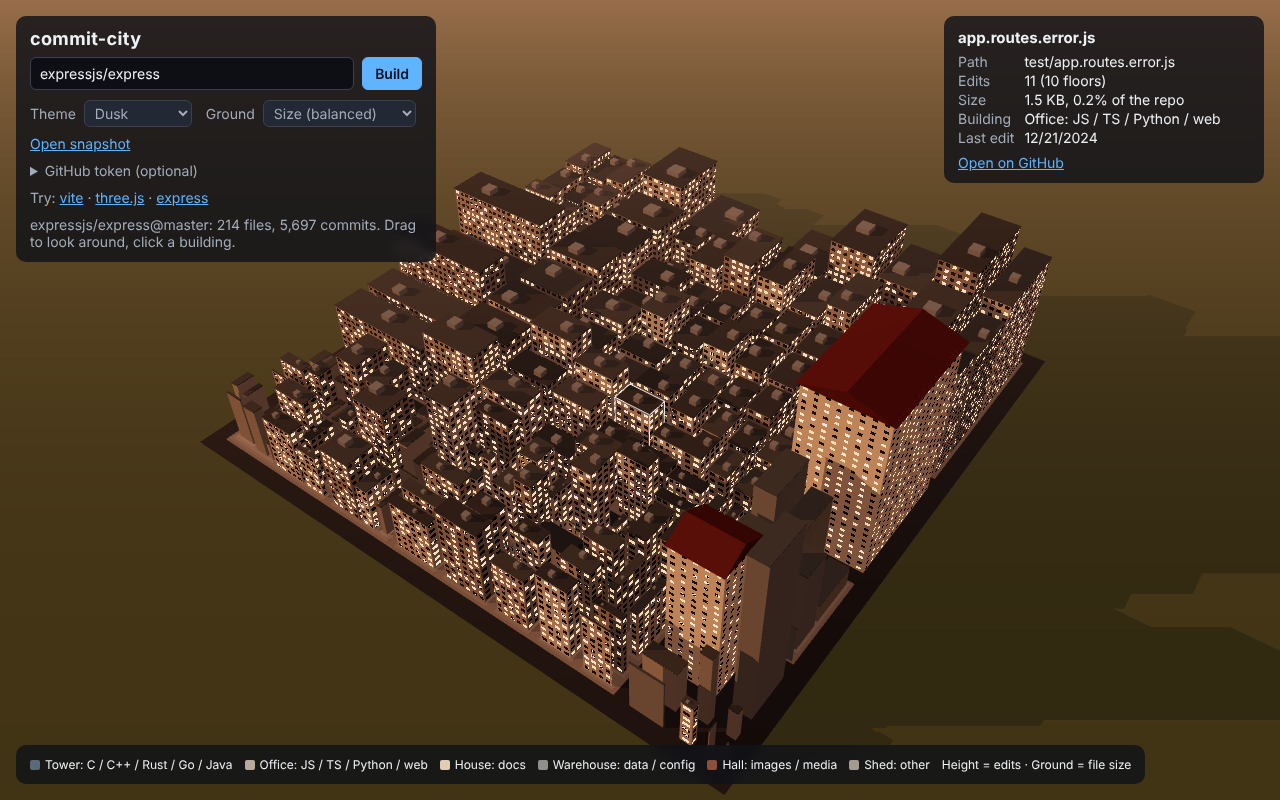
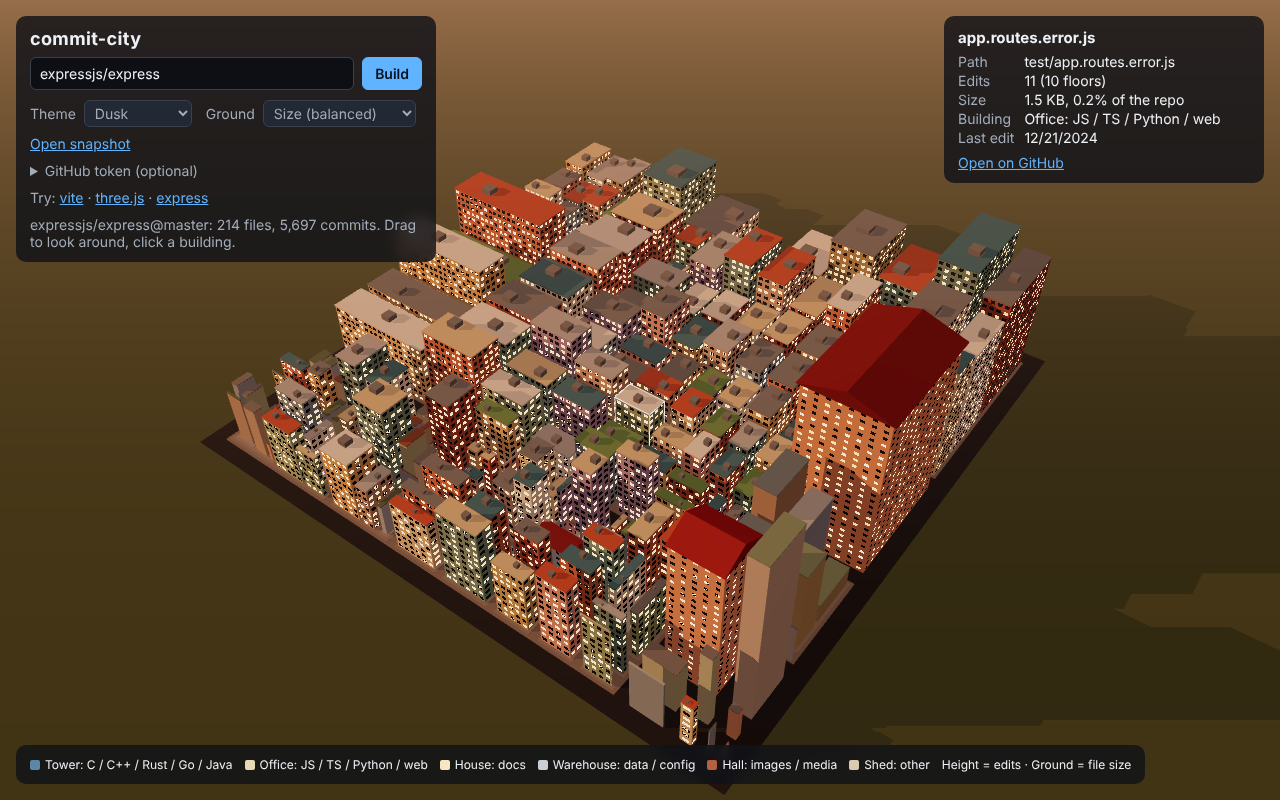
Paint the city in real-world colors
Walls and roofs now pick from a wider palette of real facade and roof
colors (cream, terracotta, sage, pale blue, brick, green roofs, ...) with
a little light/dark variation per building, instead of mostly grey.
Daylight and Dusk share the palette. README screenshots and the mapping
table are updated.

Changed region(s): [[0.1562, 0.1875, 0.8438, 0.9375]]

diff --git a/src/themes.ts b/src/themes.ts
@@ -33,6 +33,37 @@ export interface Theme {
   exposure: number;
 }
 
+/** Real-world facade and roof colors, shared by the daytime themes. */
+const CITY_COLORS: Theme["kinds"] = {
+  tower: {
+    walls: ["#5b87a8", "#4d7c8a", "#6f9fb8", "#3f6f7f", "#7a9a78", "#9a8463", "#5e6f9a", "#86a9c4"],
+    roofs: ["#d9dcde", "#9aa3a8", "#6f8f72", "#c9b28a", "#7c8a99"],
+  },
+  office: {
+    walls: [
+      "#e8d9b5", "#d98f6a", "#c9785c", "#e6c48a", "#a9c2a0", "#9fb8cc",
+      "#e3a99a", "#f0ece2", "#b7a6c9", "#c2b280", "#d4b8a0", "#8fb3a8",
+    ],
+    roofs: ["#e8e6e1", "#b8bcbf", "#7fa36b", "#c96f4a", "#5f8a9a", "#8a8f94", "#d8c9a8"],
+  },
+  house: {
+    walls: ["#f6e7c1", "#f2c6a0", "#e8a87c", "#c9d9b0", "#bcd4e6", "#f4f1ea", "#e9c9d3", "#d9b38c"],
+    roofs: ["#b5523b", "#8f3e2c", "#4b6a8a", "#3f5e4a", "#6b4a3a", "#a8452f", "#c7743f"],
+  },
+  warehouse: {
+    walls: ["#c9cfd2", "#9fb3bf", "#c7b98f", "#8fa6a0", "#b9a58e", "#d6d0c4", "#a7b9d1"],
+    roofs: ["#a6adb2", "#7b8d99", "#b5bdc1", "#8fa38a"],
+  },
+  hall: {
+    walls: ["#b5603f", "#a14f38", "#c4744f", "#8f4a3a", "#c98a5a"],
+    roofs: ["#2f4f4f", "#5a6e6a", "#7d5a46", "#4f6d7a"],
+  },
+  shed: {
+    walls: ["#d8cbb0", "#b9c4a8", "#c8b6a0", "#a8b8c8", "#d9a98a"],
+    roofs: ["#8a8a8a", "#6f7f6a", "#9a6a52"],
+  },
+};
+
 export const THEMES: Theme[] = [
   {
     id: "daylight",
@@ -43,14 +74,7 @@ export const THEMES: Theme[] = [
     plates: ["#b9b6ae", "#c4c1b9", "#cfccc4", "#d8d5ce"],
     sun: { color: "#fff4e0", intensity: 2.4, elevation: 0.9 },
     ambient: { sky: "#dbe8f5", ground: "#7d7466", intensity: 1.3 },
-    kinds: {
-      tower: { walls: ["#6b8496", "#5d7686", "#7891a1", "#56707f", "#8398a4"], roofs: ["#3f4449", "#4a4f54"] },
-      office: { walls: ["#cfc8bb", "#bdb6aa", "#ddd6c8", "#aca598", "#c9bca5", "#a39f98"], roofs: ["#5d6063", "#6c6f71"] },
-      house: { walls: ["#f0e8d9", "#e6dccb", "#d9ccb6", "#f3f0ea", "#d2c7b4"], roofs: ["#9c4a35", "#7f3b2c", "#585d64", "#474c54", "#8a5a3c"] },
-      warehouse: { walls: ["#a9aca9", "#9ca5a8", "#b7b2a6", "#8f9597"], roofs: ["#6e7376", "#7d8183"] },
-      hall: { walls: ["#9d5c46", "#8b4c3b", "#a9684e", "#7e4b3d"], roofs: ["#4f5053", "#5c5d60"] },
-      shed: { walls: ["#bfb8ac", "#aaa59b", "#c7c2b8"], roofs: ["#6a6a6a", "#5a5a5a"] },
-    },
+    kinds: CITY_COLORS,
     windows: { glass: "#34495c", lit: ["#ffe2a8", "#fff4d6"], litShare: 0, glow: 0 },
     shadows: true,
     exposure: 1,
@@ -64,14 +88,7 @@ export const THEMES: Theme[] = [
     plates: ["#8d8580", "#968f89", "#a09892", "#a9a19b"],
     sun: { color: "#ffb37a", intensity: 1.6, elevation: 0.25 },
     ambient: { sky: "#f0c0a8", ground: "#5a4a50", intensity: 1.4 },
-    kinds: {
-      tower: { walls: ["#5b6a78", "#4e5d6a", "#687786"], roofs: ["#2f3236", "#383b40"] },
-      office: { walls: ["#b9ab9c", "#a89c8f", "#c4b6a5", "#9a8f85"], roofs: ["#4b4c4f", "#57585a"] },
-      house: { walls: ["#e1cdb6", "#d6c1aa", "#cbb59e"], roofs: ["#843d2e", "#6d3327", "#4b4f57"] },
-      warehouse: { walls: ["#8f8f8c", "#848a8c", "#9a958a"], roofs: ["#5a5e61"] },
-      hall: { walls: ["#8a4f3d", "#7a4234", "#94593f"], roofs: ["#3f4043"] },
-      shed: { walls: ["#a39b90", "#958f86"], roofs: ["#555555"] },
-    },
+    kinds: CITY_COLORS,
     windows: { glass: "#3a3f4a", lit: ["#ffcf7a", "#ffe6b3"], litShare: 0.45, glow: 1.1 },
     shadows: true,
     exposure: 1.15,

diff --git a/src/city.ts b/src/city.ts
@@ -215,7 +215,9 @@ export class CityView {
     buildings.forEach((b, i) => {
       matrix.makeScale(b.width, b.height, b.depth).setPosition(b.x, b.base, b.z);
       body.setMatrixAt(i, matrix);
-      body.setColorAt(i, color.set(colors.walls[b.seed % colors.walls.length]));
+      // A little light/dark variation, so neighbours with the same paint still differ.
+      const shade = (((b.seed >>> 16) % 11) - 5) * 0.012;
+      body.setColorAt(i, color.set(colors.walls[b.seed % colors.walls.length]).offsetHSL(0, 0, shade));
 
       const top = b.base + b.height;
       if (style.roof === "gable") {

diff --git a/README.ja.md b/README.ja.md
@@ -6,9 +6,11 @@
 
 リポジトリを入れると、コードがブラウザの中で街になります。フォルダは区画、ファイルはビルで、何度も編集されたファイルほど高いビルに、大きいファイルほど広い敷地になります。街を見て回り、ビルをクリックすると、そのファイルをGitHubで開けます。
 
-![vite の街](docs/screenshot.png)
+![express の街](docs/screenshot.png)
 
-![夕暮れの express](docs/screenshot-dusk.png)
+| vitejs/vite | 夕暮れの express |
+|---|---|
+| ![vite の街](docs/screenshot-vite.png) | ![夕暮れの express](docs/screenshot-dusk.png) |
 
 > 状態：v0.1。今のリポジトリの姿を街にします。コミット履歴の再生は次の版で入れます（ロードマップ参照）。
 
@@ -21,6 +23,7 @@
 | 高さ | そのファイルを編集したコミットの数（対数：1回で3階、10回で9階、100回で17階、1000回で25階） |
 | 敷地の広さ | リポジトリ全体に対するファイルサイズの割合。既定の **Balanced** は平方根を使い、大きな画像やロックファイル数個で街の半分が空き地にならないようにする。**Exact share** はそのままの割合 |
 | 建物の種類 | ファイルの種類（下の表） |
+| 色 | 実際の街のような塗装。テーマの色見本から、ビルごとに壁と屋根の色を選ぶので、色分けの図ではなく本物の街っぽく見える |
 
 | 建物 | ファイル |
 |---|---|

diff --git a/README.md b/README.md
@@ -6,9 +6,11 @@ English | [日本語](README.ja.md)
 
 Paste a repository and its code becomes a city in your browser: folders are districts, files are buildings, files edited often grow into towers, and big files take up more ground. Fly around, click a building, and jump to that file on GitHub.
 
-![vite as a city](docs/screenshot.png)
+![express as a city](docs/screenshot.png)
 
-![express at dusk](docs/screenshot-dusk.png)
+| vitejs/vite | express at dusk |
+|---|---|
+| ![vite as a city](docs/screenshot-vite.png) | ![express at dusk](docs/screenshot-dusk.png) |
 
 > Status: v0.1. The city shows the repository as it is today. Replaying the commit history is next (see the roadmap).
 
@@ -21,6 +23,7 @@ Paste a repository and its code becomes a city in your browser: folders are dist
 | Height | How many commits edited the file (log scale: 1 edit = 3 floors, 10 = 9, 100 = 17, 1000 = 25) |
 | Ground | The file's size relative to the whole repository. **Balanced** (default) uses the square root so a few big images or lockfiles don't turn half the city into empty lots; **Exact share** is the plain ratio. |
 | Kind of building | Kind of file, see below |
+| Color | Real-world paint: each building picks its own wall and roof color from the theme's palette, so the city looks lived in rather than color-coded |
 
 | Building | Files |
 |---|---|
